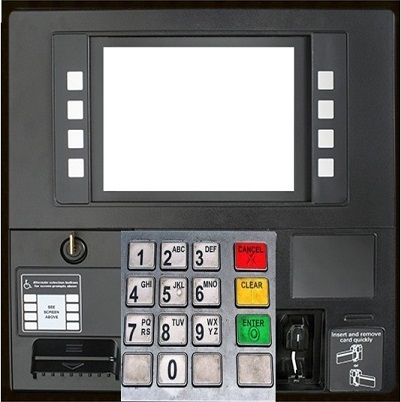
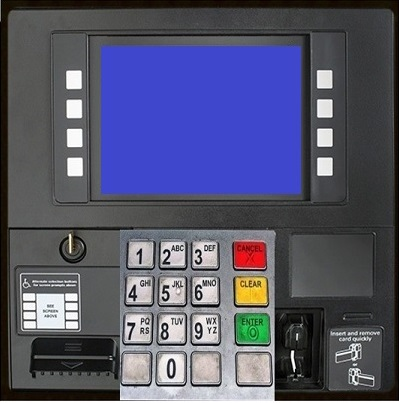
Command pattern execution

diff --git a/GasStation/Display.java b/GasStation/Display.java
@@ -14,6 +14,7 @@ public class Display extends Screen implements IDisplayComponent
     public Display(World world) 
     {
     	this.world = world;
+
    	
 		gi = new GreenfootImage(189,142); 
 		giReceipt = new GreenfootImage(250,300);
@@ -23,10 +24,15 @@ public class Display extends Screen implements IDisplayComponent
               
 	}
   
+    public void clearScreen()
+    {
+    	gi.clear();
+    }
 
     public void setText(String msg)
     {
     //	gi.clear();
+
     	GreenfootImage inner= new GreenfootImage(msg, 19, Color.YELLOW, new Color(0, 0, 0, 96));
     	 int wide = gi.getWidth();
 	     int high = gi.getHeight();
@@ -34,41 +40,40 @@ public class Display extends Screen implements IDisplayComponent
 	     int topY = (high - inner.getHeight())/2;
 	     
         gi.setColor(greenfoot.Color.BLACK);
-        gi.setFont(gi.getFont().deriveFont(17f));
+        gi.setFont(gi.getFont().deriveFont(14f));
     	
     	if(msg=="OK")
     	{
 //    		 gi.drawString(msg,165,100);
 //    	        setImage(gi);
-    		gi.drawImage(inner, 165, 85);
+    		gi.drawImage(inner, 170, 85);
 	        setImage(gi);
     	}
     	else if(msg=="Cancel")
     	{
 //    		 gi.drawString(msg,138,125);
 //    	        setImage(gi);
-    	        gi.drawImage(inner, 138, 110);
+    	        gi.drawImage(inner, 140, 110);
     	        setImage(gi);
     	}
     	else if(msg=="Yes")
-    	{
-//    		 gi.drawString(msg,5,100);
+    	{//    		 gi.drawString(msg,5,100);
 //    	        setImage(gi);
-    		gi.drawImage(inner, 5, 85);
+    		gi.drawImage(inner, 2, 85);
 	        setImage(gi);
     	}
     	else if(msg=="No")
     	{
 //    		 gi.drawString(msg,5,125);
 //    	        setImage(gi);
-    		gi.drawImage(inner, 5, 110);
+    		gi.drawImage(inner, 2, 110);
 	        setImage(gi);
     	}
       
     	else if(msg=="Help")
     	{
     
-    		gi.drawImage(inner, 5, 25);
+    		gi.drawImage(inner, 2, 25);
 	        setImage(gi);
 	       
 //    		 gi.drawString(msg,5,40);
@@ -105,6 +110,7 @@ public class Display extends Screen implements IDisplayComponent
     @Override
 	public void display() {
 		// TODO Auto-generated method stub
+
     	this.world.addObject(this, 448, 168);
 	}
 	/**
@@ -114,6 +120,7 @@ public class Display extends Screen implements IDisplayComponent
     public void act()
     {
         // Add your action code here.
+
 //     	MouseInfo mouse = Greenfoot.getMouseInfo();
 //     	 if (Greenfoot.mouseClicked(null))
 //          {

diff --git a/GasStation/CardScanner.java b/GasStation/CardScanner.java
@@ -14,14 +14,18 @@ public class CardScanner extends Screen implements IDisplayComponent
     boolean f = true;
     ZipcodeMachine zipcodemachine;
     boolean flag = true;
-    GasOptions go;
-    
+    GasOptions go = null;
+    Receiver r = null;
+    CancelCommand cc = null;
+    Invoker in = null;
     
     public CardScanner(World world) {
         this.world = world;
         this.cardmachine = new CardMachine();
         this.zipcodemachine = new ZipcodeMachine();
         this.go = new GasOptions(world);
+        this.r  = new CreditReceiver();
+        
     }
 
     /**
@@ -30,8 +34,17 @@ public class CardScanner extends Screen implements IDisplayComponent
      */
     public void act() 
     {
+    	Display d  =getWorld().getObjects(Display.class).get(0);
+    	
+    	d.clearScreen();
+    	d.setText("Cancel");
+    	d.setText("Help");
+    	
+    	
         if (getOneIntersectingObject(Card.class) != null)
         {
+        	
+        	
             c = (Card)getOneIntersectingObject(Card.class);
             
          
@@ -79,7 +92,10 @@ public class CardScanner extends Screen implements IDisplayComponent
         }
                 
         MouseInfo mouse = Greenfoot.getMouseInfo();
-   	 if (Greenfoot.mouseClicked(null) && ((!flag) && cardmachine.cardState.getClass().getCanonicalName() == cardmachine.hasCorrectPin.getClass().getCanonicalName()))
+   	 if (Greenfoot.mouseClicked(null) )
+   			 {
+   		 
+   			 if ((mouse != null) && (!flag) && cardmachine.cardState.getClass().getCanonicalName() == cardmachine.hasCorrectPin.getClass().getCanonicalName())
         {
    		//System.out.println("After" );
    		 	if (mouse.getX() >= 370 && mouse.getX()<=525 && mouse.getY() >= 280 && mouse.getY() <= 450)
@@ -142,7 +158,20 @@ public class CardScanner extends Screen implements IDisplayComponent
    		 		}
    		 	}
         }
-   	 
+   			 
+   			 if (mouse != null && mouse.getX() >= 569 && mouse.getX()<=584 && mouse.getY() >= 208 && mouse.getY() <= 225)
+   			 {
+   				 System.out.println("Cancel");
+   				 this.cc = new CancelCommand(r);
+   				 in = new Invoker(cc);
+   				 in.execute();
+   				 
+   			 }
+   			if (mouse != null && mouse.getX() >= 319 && mouse.getX()<=333 && mouse.getY() >= 121 && mouse.getY() <= 136)
+  			 {
+  				 System.out.println("Help");
+  			 }
+   			 }
    		 
     }
 

diff --git a/GasStation/MyWorld.java b/GasStation/MyWorld.java
@@ -20,6 +20,7 @@ public class MyWorld extends World
 
 	public void prepare() {
 
+
 		Card card = new Card(this);
 		GasStation gasStation = new GasStation(this);
 		PumpNozel pumpNozel = new PumpNozel(this);
@@ -41,11 +42,11 @@ public class MyWorld extends World
 		PrintReceipt printer = new PrintReceipt(this);
 		CardScanner scanner = new CardScanner(this);
 		Buttons buttons = new Buttons(this);
-		Display messages = new Display(this);
+		//Display messages = new Display(this);
 		GasOptions fuelType =new GasOptions(this);
 
 		//composite pattern for all gas station components
-		gasStation.addSubComponent(messages);
+		//gasStation.addSubComponent(messages);
 		gasStation.addSubComponent(scanner);
 		gasStation.addSubComponent(printer);
 		gasStation.addSubComponent(buttons);
@@ -67,6 +68,7 @@ public class MyWorld extends World
 		//     This should be called when customer asks for a car wash from the respective class
 		//      Greenfoot.setWorld(new CarWashWorld());
 	}
+
 
 
 }

diff --git a/GasStation/CreditReceiver.java b/GasStation/CreditReceiver.java
@@ -1,0 +1,35 @@
+import greenfoot.Greenfoot;
+
+public class CreditReceiver implements Receiver {
+
+	@Override
+	public void doOkAction() {
+		// TODO Auto-generated method stub
+		
+	}
+
+	@Override
+	public void doCancelAction() {
+		// TODO Auto-generated method stub
+		Greenfoot.setWorld(new MyWorld());
+	}
+
+	@Override
+	public void doHelpAction() {
+		// TODO Auto-generated method stub
+		
+	}
+
+	@Override
+	public void doYesAction() {
+		// TODO Auto-generated method stub
+		
+	}
+
+	@Override
+	public void doNoAction() {
+		// TODO Auto-generated method stub
+		
+	}
+
+}

diff --git a/GasStation/GasOptions.java b/GasStation/GasOptions.java
@@ -22,7 +22,7 @@ public class GasOptions extends Screen implements IDisplayComponent
     {
         // Add your action code here.
     	MouseInfo mouse = Greenfoot.getMouseInfo();
-    	if(Greenfoot.mouseClicked(null)) {
+    	if(Greenfoot.mouseClicked(null) && mouse != null) {
     		if(mouse.getX() >= 650 && mouse.getX() <= 800 && mouse.getY() >= 350 && mouse.getY() <= 450) {
     			act1();
     		}
